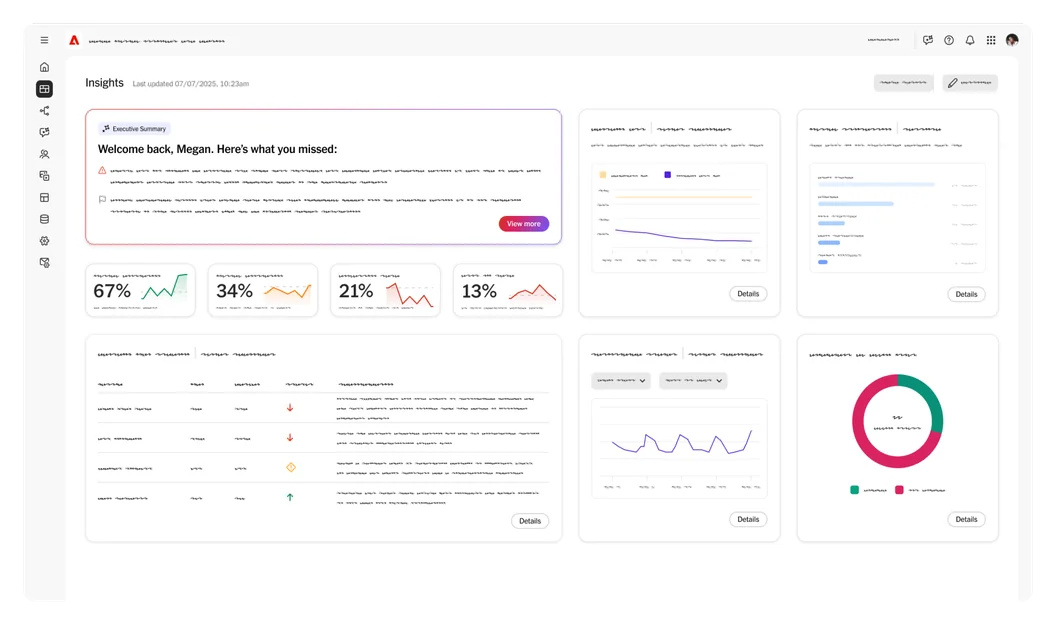
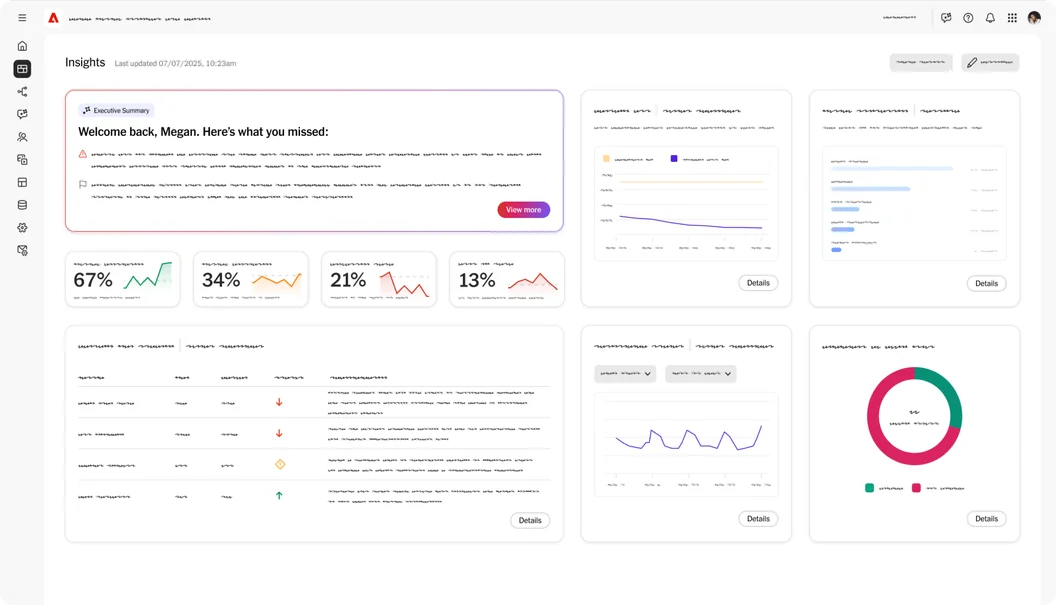
Crop transparent margins from case study images
Each exported screenshot carried a 64px transparent margin that showed the
card background as a grey frame. Crop it out so screenshots fill their
cards and the card's rounded corners clip them.

Claude-Session: https://claude.ai/code/session_015jk89ALhmaMZFLte5xrJwg

diff --git a/index.html b/index.html
@@ -50,7 +50,7 @@
         <ul class="project-list">
             <li class="project" style="--accent: #e92e24">
                 <div class="project__media">
-                    <img src="assets/projects/adobe-journey-optimizer.webp" width="1056" height="625" alt="Adobe Journey Optimizer insights dashboard">
+                    <img src="assets/projects/adobe-journey-optimizer.webp" width="1056" height="605" alt="Adobe Journey Optimizer insights dashboard">
                 </div>
                 <div class="project__details">
                     <div class="project__meta">
@@ -69,7 +69,7 @@
 
             <li class="project" style="--accent: #ff5b49">
                 <div class="project__media">
-                    <img src="assets/projects/seatgeek-live-activities.webp" width="1056" height="628" alt="SeatGeek Live Activities on two phone lock screens">
+                    <img src="assets/projects/seatgeek-live-activities.webp" width="1056" height="608" alt="SeatGeek Live Activities on two phone lock screens">
                 </div>
                 <div class="project__details">
                     <div class="project__meta">
@@ -88,7 +88,7 @@
 
             <li class="project" style="--accent: #292b35">
                 <div class="project__media">
-                    <img src="assets/projects/nyt-topics-onboarding.webp" width="1056" height="628" alt="New York Times onboarding screen for choosing topics">
+                    <img src="assets/projects/nyt-topics-onboarding.webp" width="1056" height="608" alt="New York Times onboarding screen for choosing topics">
                 </div>
                 <div class="project__details">
                     <div class="project__meta">
@@ -107,7 +107,7 @@
 
             <li class="project" style="--accent: #4aa63a">
                 <div class="project__media">
-                    <img src="assets/projects/symbotic-design-system.webp" width="1056" height="625" alt="Symbotic operator software in a dark theme">
+                    <img src="assets/projects/symbotic-design-system.webp" width="1056" height="605" alt="Symbotic operator software in a dark theme">
                 </div>
                 <div class="project__details">
                     <div class="project__meta">
@@ -126,7 +126,7 @@
             <!-- TODO: Not featured in the Figma frames — title/summary taken from the screenshot; needs real copy, tags and logo. -->
             <li class="project">
                 <div class="project__media">
-                    <img src="assets/projects/wordsworth-illustrated.webp" width="1056" height="628" alt="Wordsworth Illustrated interactive exhibit">
+                    <img src="assets/projects/wordsworth-illustrated.webp" width="1056" height="608" alt="Wordsworth Illustrated interactive exhibit">
                 </div>
                 <div class="project__details">
                     <h2 class="project__title">Wordsworth Illustrated</h2>
@@ -137,7 +137,7 @@
             <!-- TODO: logo (two small images in Figma) still needs exporting; heading colour assumed to match NYT. -->
             <li class="project" style="--accent: #292b35">
                 <div class="project__media">
-                    <img src="assets/projects/nyt-museum.webp" width="1056" height="625" alt="New York Times museum digital exhibit">
+                    <img src="assets/projects/nyt-museum.webp" width="1056" height="605" alt="New York Times museum digital exhibit">
                 </div>
                 <div class="project__details">
                     <div class="project__meta">

diff --git a/home.css b/home.css
@@ -207,11 +207,10 @@ body.home {
 .project__media {
     flex: none;
     width: var(--card-width);
-    aspect-ratio: 2926 / 1732;
+    aspect-ratio: 2798 / 1604;    /* screenshots cropped to their content */
     overflow: hidden;
     border: 0.5px solid #b1b5bd;
     border-radius: 6px;
-    background: rgba(225, 225, 225, 0.5);
     box-shadow: 6px 6px 40px rgba(0, 0, 0, 0.15);
 }
 

diff --git a/home.js b/home.js
@@ -22,7 +22,7 @@
     const GAP = 32;             // px between cards
     const W_MIN = 354;          // card width at rest
     const W_MAX = 528;          // card width at the centre
-    const ASPECT = 2926 / 1732;
+    const ASPECT = 2798 / 1604;
     const LAPS = 7;             // laps of the loop in the scroll track
     const LAP = PITCH * N;
 
